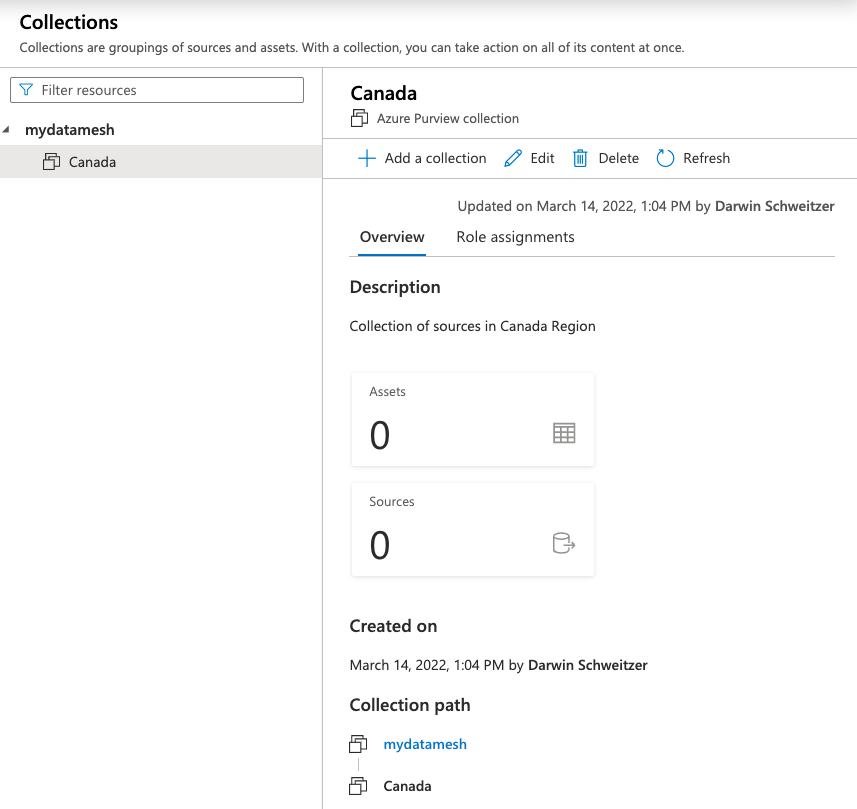
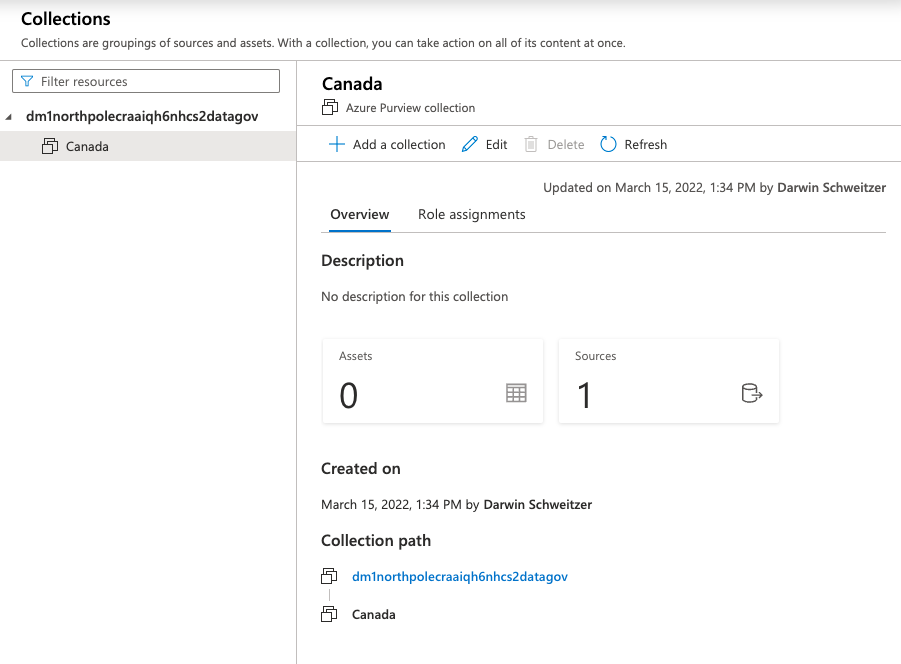
more

diff --git a/usecases/datagov/steps/usecasesteps.md b/usecases/datagov/steps/usecasesteps.md
@@ -18,6 +18,8 @@ Then follow the steps in [Register and scan Azure Data Lake Storage Gen2](https:
 
 To get started do the following:
 
+#### Create Collection and Register Data source
+
 1. Find Purview Studio in your Azure Purview account and click Open
 
 ![purviewaccount](https://raw.githubusercontent.com/DataSnowman/MyDataMesh/main/images/purviewaccount.png)
@@ -26,32 +28,96 @@ To get started do the following:
 
 ![purviewsources](https://raw.githubusercontent.com/DataSnowman/MyDataMesh/main/images/purviewsources.png)
 
-3. Click on Collections and click + Add a collection
+3. Click on Collections
 
 ![purviewcollections](https://raw.githubusercontent.com/DataSnowman/MyDataMesh/main/images/purviewcollections.png)
 
-4. Give the collection a Display name and Description and click Create.  In my case the data sources I want to scan and manage are in a data center region in Central Canada to I am going to call my collection Canada.
+4. Click on the Role assignments tab and add your user to the Policy authors and Workflow administrators
+
+![roleassignments](https://raw.githubusercontent.com/DataSnowman/MyDataMesh/main/images/roleassignments.png)
+
+5. Click + Add a collection and give the collection a Display name and Description and click Create.  In my case the data sources I want to scan and manage are in a data center region in Central Canada to I am going to call my collection Canada.
 
 ![newcollection](https://raw.githubusercontent.com/DataSnowman/MyDataMesh/main/images/newcollection.png)
 
-5. The collection should look like this:
+6. The collection should look like this:
 
 ![canada](https://raw.githubusercontent.com/DataSnowman/MyDataMesh/main/images/canada.png)
 
-6. Click on the Role assignments tab and add your user to the Policy authors and Workflow administrators roles
+7. Click on the Role assignments tab and check that your user has inherited the Policy authors and Workflow administrators roles.
 
 ![collectionroles](https://raw.githubusercontent.com/DataSnowman/MyDataMesh/main/images/collectionroles.png)
 
-7. Return to Sources and you should see the new collection
+8. Return to Sources and you should see the new collection
 
 ![collectionmap](https://raw.githubusercontent.com/DataSnowman/MyDataMesh/main/images/collectionmap.png)
 
-8. Click on the register icon on the new collection and navigate to Azure Data Lake Gen2 and click Continue
+9. Click on the register icon on the new collection and navigate to Azure Data Lake Gen2 and click Continue
 
 ![regadls](https://raw.githubusercontent.com/DataSnowman/MyDataMesh/main/images/regadls.png)
 
-9. Provide a descriptive Name (ADLS-Canada-dm1accelers tells me it is ADLS in Canada and with some or all of its storage account name), select the Azure Subscription, the Storage account name, and Enable Data use governance.  Click Register
+10. Provide a descriptive Name (ADLS-dm2xxxetc tells me it is ADLS in storage account name), select the Azure Subscription, the Storage account name, and Enable Data use governance.  Click Register
 
 ![regsource](https://raw.githubusercontent.com/DataSnowman/MyDataMesh/main/images/regsource.png)
 
-10.
+11. You should now have a root Source, Canada Collection, and ADLSGen2 Data source in the Map view
+
+![mapview](https://raw.githubusercontent.com/DataSnowman/MyDataMesh/main/images/mapview.png)
+
+#### Manage Security and access
+
+1. The Deployment added a Key vault into the Resource Group where your Purview account was deployed
+
+![purviewdep](https://raw.githubusercontent.com/DataSnowman/MyDataMesh/main/images/purviewdep.png)
+
+2. Open up the Key vault and go to Access policies and [for details](https://docs.microsoft.com/en-us/azure/purview/manage-credentials#option-1---assign-access-using-key-vault-access-policy)
+
+3. Click on + Add Access Policy
+
+![addaccesspolicy](https://raw.githubusercontent.com/DataSnowman/MyDataMesh/main/images/addaccesspolicy.png)
+
+4. In the Secrets permissions dropdown, select Get and List permissions.  Add the Azure Purview instance name and click Add
+  
+![getlist](https://raw.githubusercontent.com/DataSnowman/MyDataMesh/main/images/getlist.png)
+
+5. Should look something like this:
+
+![appuser](https://raw.githubusercontent.com/DataSnowman/MyDataMesh/main/images/appuser.png)
+
+6. In Key vault and go to secrets
+
+![kvsecrets](https://raw.githubusercontent.com/DataSnowman/MyDataMesh/main/images/kvsecrets.png)
+
+7. Click on Generate/Import and get the details you need from the Storage account (see the next item 8).  Give the Secret a Name and copy the Storage Account key from the portal as shown below.  Set activation date and click Create
+
+![createsecret](https://raw.githubusercontent.com/DataSnowman/MyDataMesh/main/images/createsecret.png)
+
+8. Go to the Storage account that you want to get the Access key for
+
+![storagekey](https://raw.githubusercontent.com/DataSnowman/MyDataMesh/main/images/storagekey.png)
+
+9. Go to the Management tab in Purview Studio and select Credentials and click on Manage Key Vault connections
+
+![managekv](https://raw.githubusercontent.com/DataSnowman/MyDataMesh/main/images/managekv.png)
+
+10. Click on + New
+
+![newkv](https://raw.githubusercontent.com/DataSnowman/MyDataMesh/main/images/newkv.png)
+
+11. Give it a Name (I used the name of the Key vault), Description, select Subscription and the Key Vault name and click Create
+
+![kvname](https://raw.githubusercontent.com/DataSnowman/MyDataMesh/main/images/kvname.png)
+
+12. Click Confirm
+
+![confirm](https://raw.githubusercontent.com/DataSnowman/MyDataMesh/main/images/confirm.png)
+
+13. Click Close
+
+![close](https://raw.githubusercontent.com/DataSnowman/MyDataMesh/main/images/close.png)
+
+14. In Credential click on + New.  Fill out the Name, Authentication method is Account Key, Select Key Vault connection, and enter the Secret name of the secret you just created.  Click Create
+
+![credential](https://raw.githubusercontent.com/DataSnowman/MyDataMesh/main/images/credential.png)
+
+This is the Credential you will use to setup the scan
